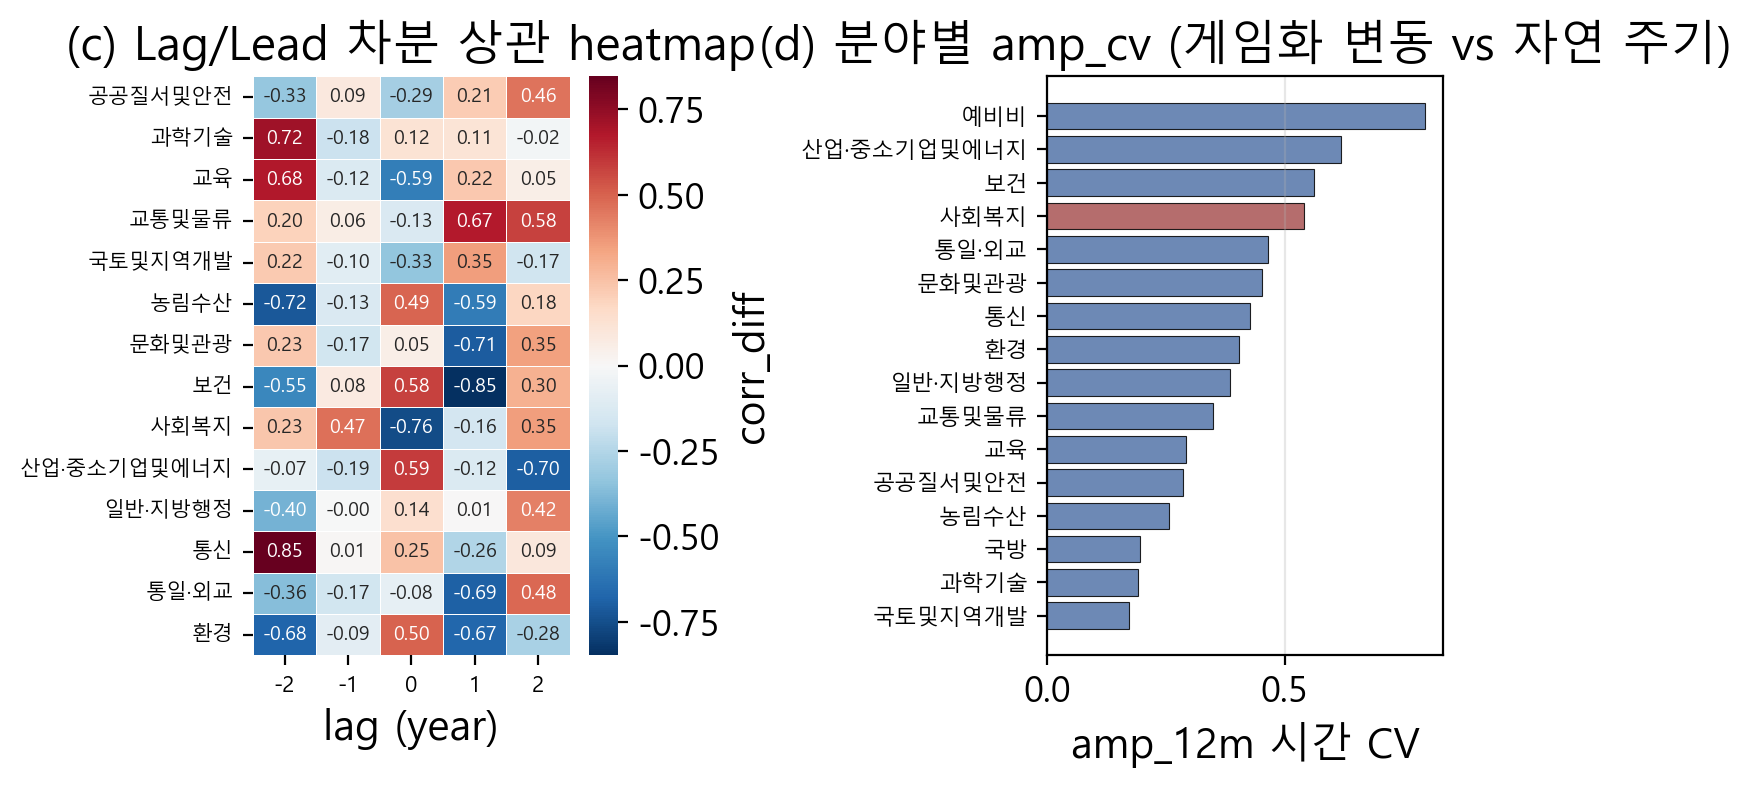
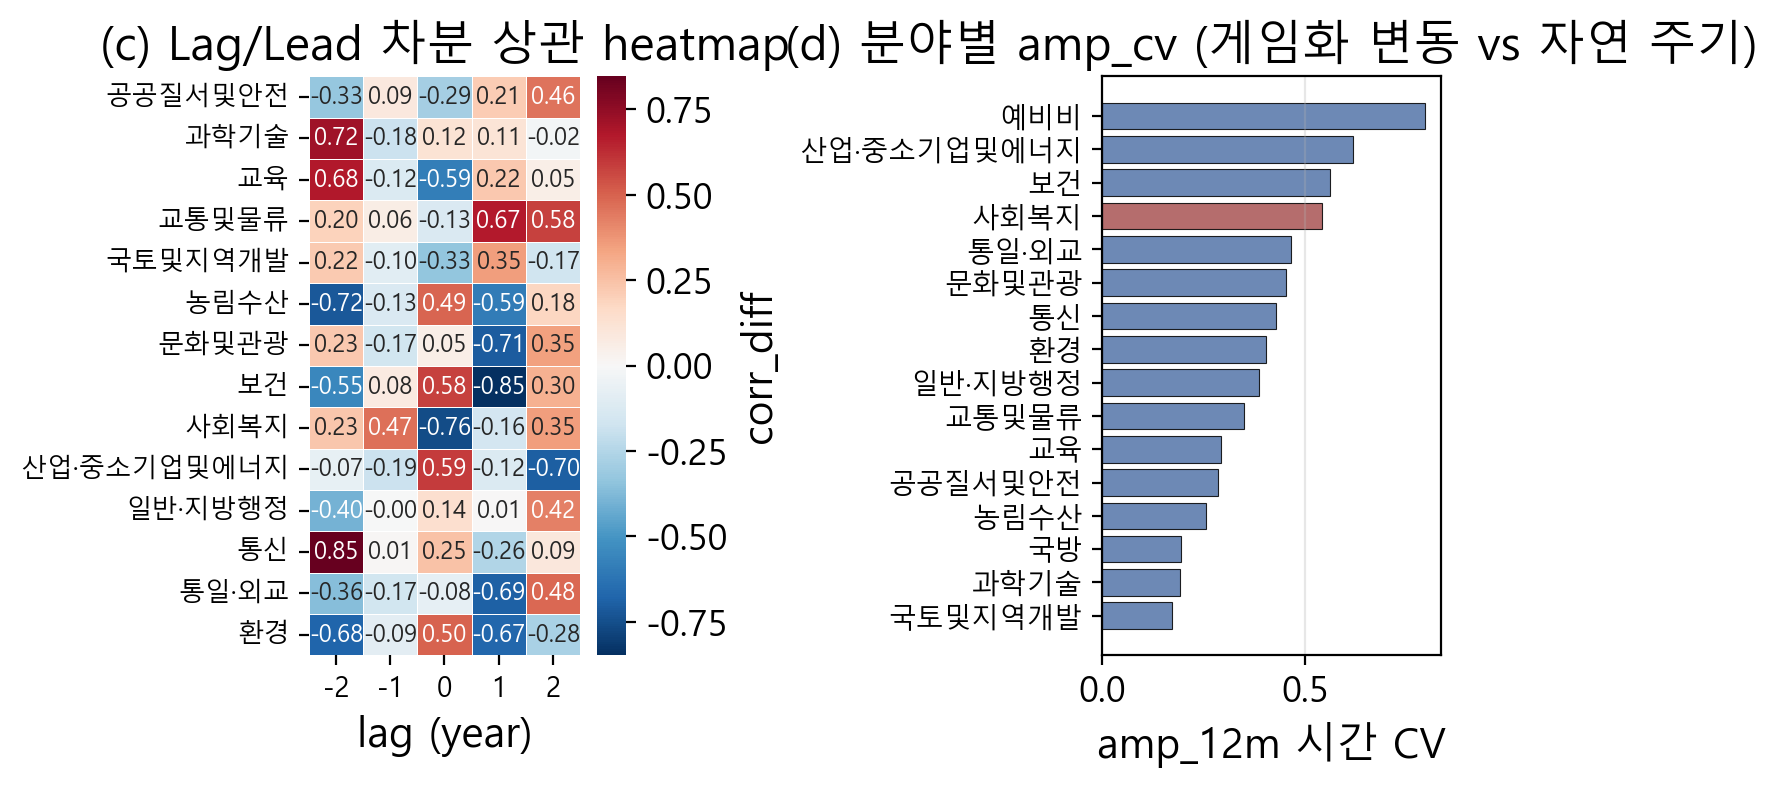
검증 실행으로 재생성된 figure + 줄끝 정규화

diff --git a/scripts/figures/redo_fig04_robustness.py b/scripts/figures/redo_fig04_robustness.py
@@ -148,11 +148,11 @@ ax = axes[0]
 pv = lag.pivot_table(index='fld', columns='lag', values='corr_diff')
 sns.heatmap(pv, annot=True, fmt='.2f', cmap='RdBu_r', center=0, ax=ax,
             cbar_kws={'label': 'corr_diff'},
-            annot_kws={'size': 7}, linewidths=0.3, linecolor='white')
+            annot_kws={'size': 8.5}, linewidths=0.3, linecolor='white')
 ax.set_xlabel('lag (year)'); ax.set_ylabel('')
 ax.set_title('(c) Lag/Lead 차분 상관 heatmap')
-ax.tick_params(axis='y', labelsize=7.5)
-ax.tick_params(axis='x', labelsize=8)
+ax.tick_params(axis='y', labelsize=9.5)
+ax.tick_params(axis='x', labelsize=10)
 
 # ── (d) 분야별 amp_cv 수평 막대 (정렬, 사회복지 강조)
 ax = axes[1]
@@ -163,7 +163,7 @@ colors_bar = ['#a85454' if m else '#5475a8' for m in target_mask]
 ax.barh(range(len(nat_sorted)), nat_sorted['amp_cv'],
         color=colors_bar, alpha=0.85, edgecolor='black', linewidth=0.4)
 ax.set_yticks(range(len(nat_sorted)))
-ax.set_yticklabels(nat_sorted['fld'], fontsize=8)
+ax.set_yticklabels(nat_sorted['fld'], fontsize=10)
 ax.set_xlabel('amp_12m 시간 CV')
 ax.set_title('(d) 분야별 amp_cv (게임화 변동 vs 자연 주기)')
 ax.grid(alpha=0.3, axis='x')
